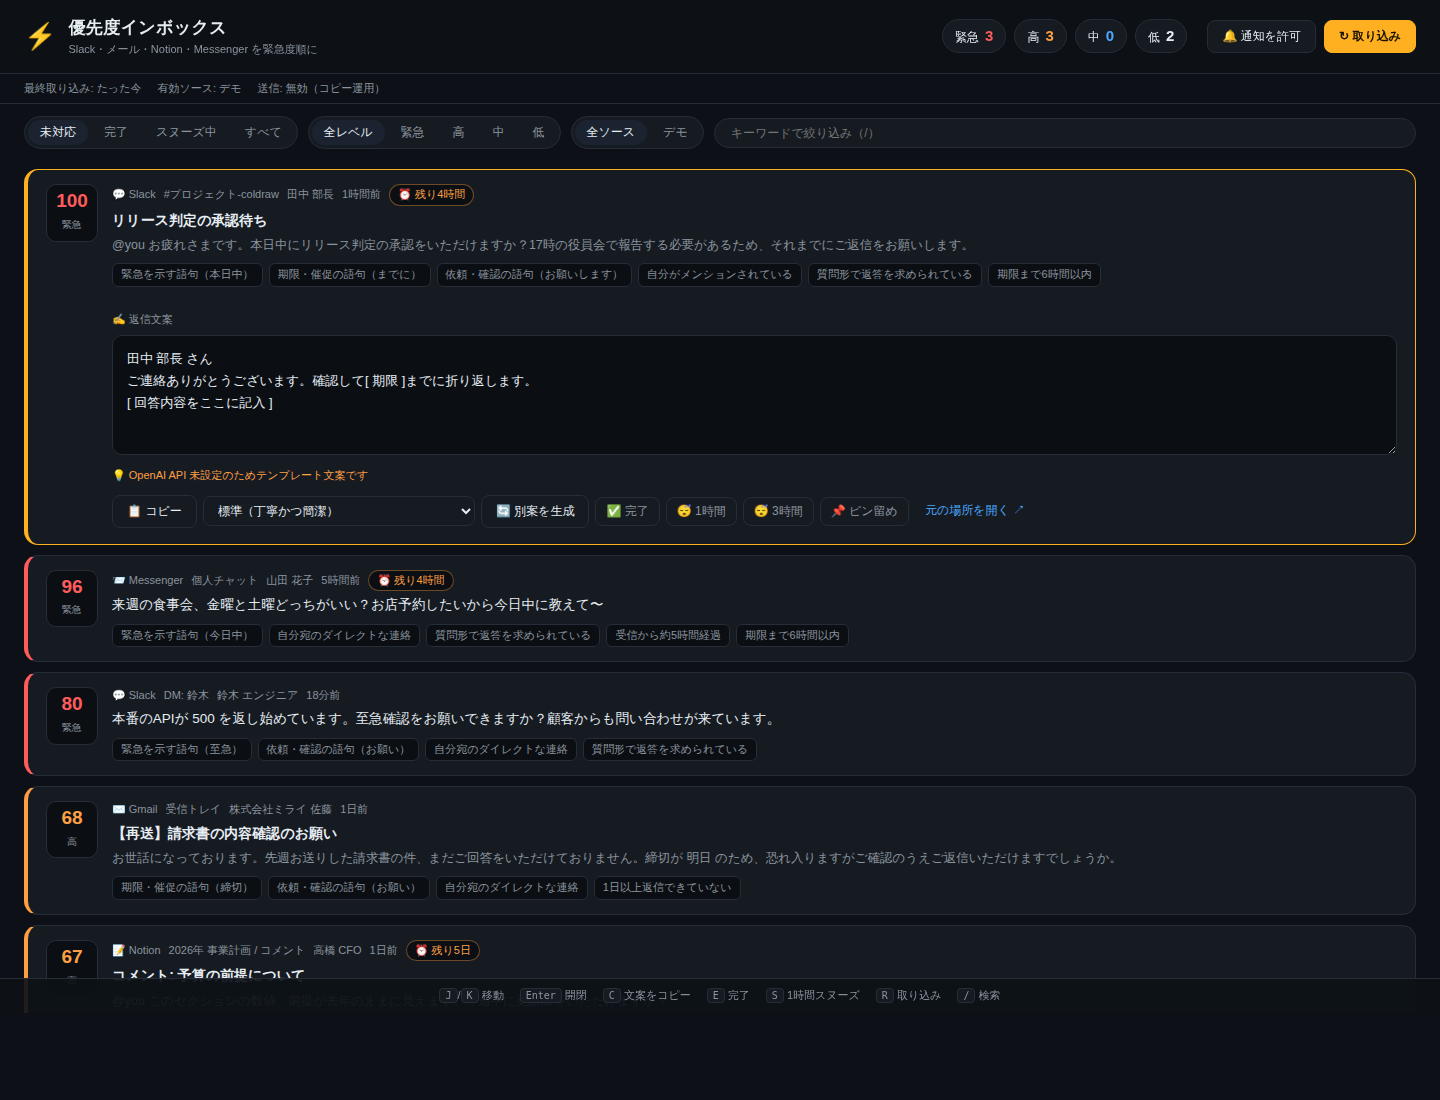
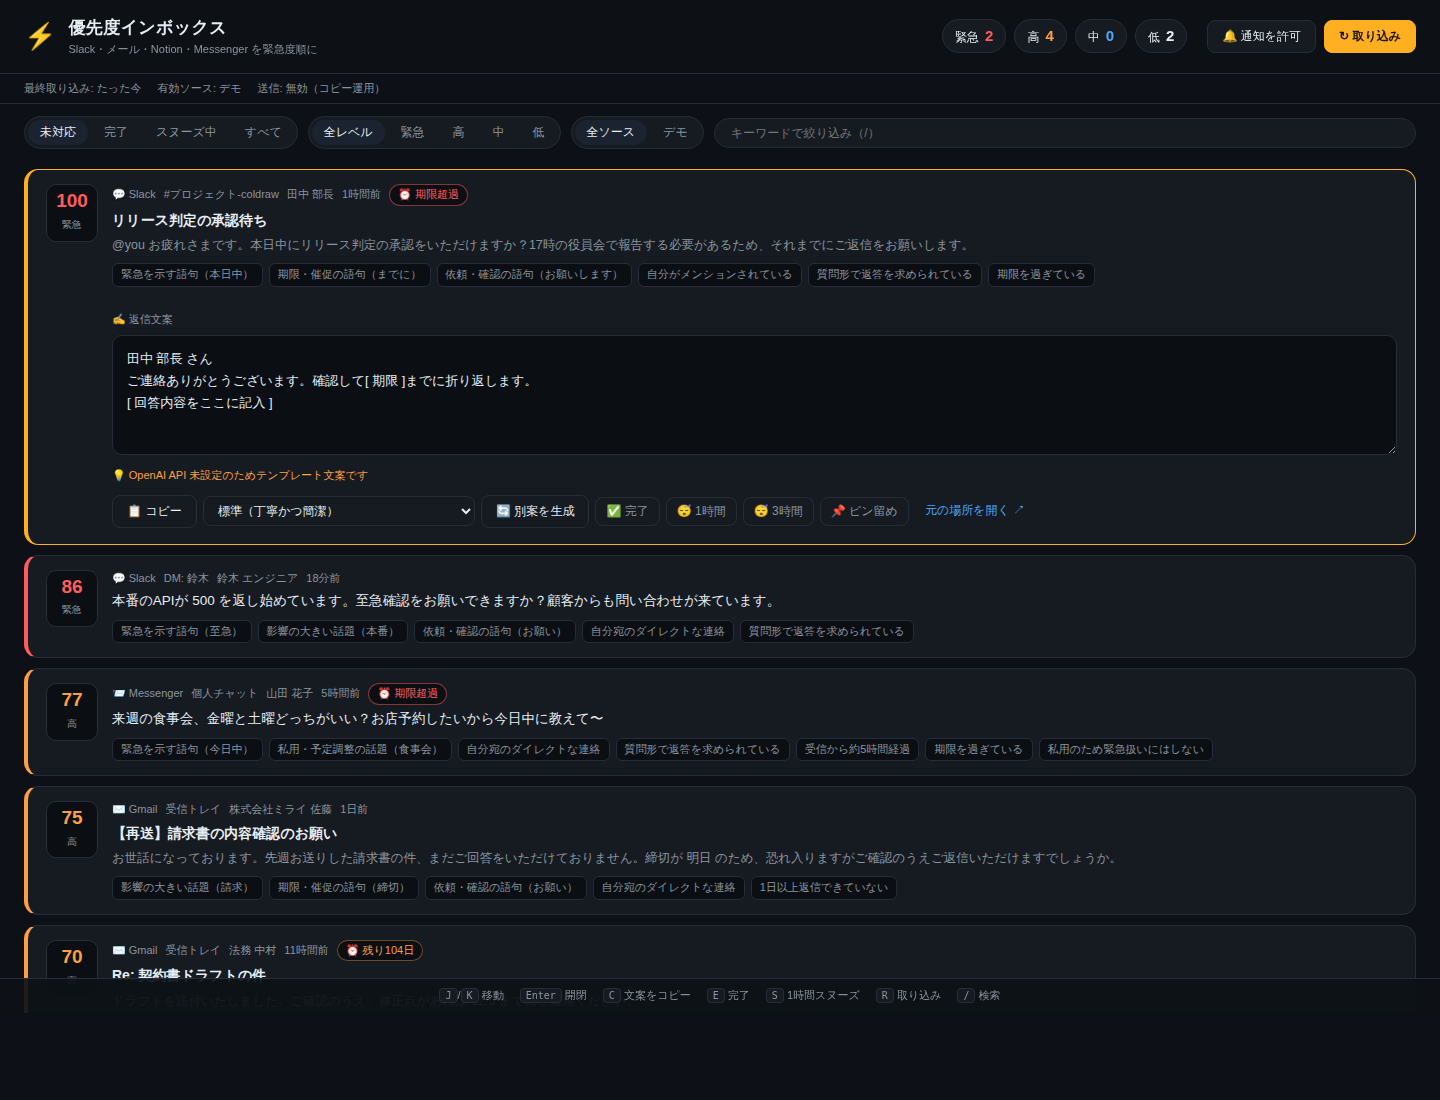
fix: ルール判定で業務影響と私用を区別して並べ替える
キーワードだけで判定していたため、「今日中に店を予約したい」といった私用の連絡が
本番障害より上位に来ていた。ルール判定にしかフォールバックできない環境でも
実務的な並び順になるよう、2 つのシグナルを追加した。

- 影響の大きい話題（障害 / 本番 / 顧客 / 請求 / 契約 / セキュリティ など）を +16 で加点。
  緊急語と重なることで「本当に今やるべき案件」が上位に来る
- 私用・予定調整の話題（食事会 / 予約 / 旅行 など）は -20 で減点し、
  業務影響が絡まない限りスコアを緊急のしきい値未満に抑える。
  利用者の依頼どおり私用の連絡も一覧には残す
- 上記を検証するテストを 3 件追加（全 20 件通過）
- README のスコアリング説明と既知の限界の記述、スクリーンショットを更新

デモデータでの並び: リリース承認 100 → 本番障害 86 → 私用の予定調整 77（従来は 96 で障害より上）

Claude-Session: https://claude.ai/code/session_01EgXQfCyxhKquABRSWYJHgf

diff --git a/src/priority.js b/src/priority.js
@@ -6,7 +6,14 @@ const KEYWORD_RULES = [
     key: 'critical',
     weight: 28,
     label: '緊急を示す語句',
-    words: ['至急', '大至急', '緊急', '今すぐ', '本日中', '今日中', '即時', '障害', 'サービス停止', 'ダウンして', 'インシデント', 'クレーム', 'asap', 'urgent', 'critical', 'outage', 'p0', 'p1']
+    words: ['至急', '大至急', '緊急', '今すぐ', '本日中', '今日中', '即時', 'asap', 'urgent', 'critical', 'p0', 'p1']
+  },
+  {
+    // 放置したときの損失が大きい話題。緊急語と重なると「本当に今やるべき案件」として浮上する
+    key: 'impact',
+    weight: 16,
+    label: '影響の大きい話題',
+    words: ['障害', 'サービス停止', 'ダウンして', 'インシデント', 'クレーム', '本番', '顧客', '取引先', '請求', '支払い', '入金', '契約', '解約', 'セキュリティ', '情報漏洩', '不具合', 'outage', 'incident', 'production', 'customer', 'invoice', 'payment', 'security', 'breach']
   },
   {
     key: 'deadline',
@@ -19,6 +26,13 @@ const KEYWORD_RULES = [
     weight: 9,
     label: '依頼・確認の語句',
     words: ['お願いします', 'お願いいたします', 'お願い', 'ご確認', '確認して', 'ご返信', '返信ください', '回答', '承認', 'レビュー', '依頼', 'いただけますか', 'いただけると', 'please', 'could you', 'review', 'approve', 'sign off']
+  },
+  {
+    // 私用の連絡も対象に含めるが、仕事の重大案件よりは下に来るように控えめに減点する
+    key: 'personal',
+    weight: -20,
+    label: '私用・予定調整の話題',
+    words: ['食事会', '飲み会', '飲みに', 'ランチ', '二次会', 'お店', '予約したい', '誕生日', '旅行', '帰省', 'プレゼント', '遊び']
   },
   {
     key: 'noise',
@@ -207,6 +221,13 @@ export function scoreItem(item, now = new Date()) {
   }
 
   score += SOURCE_WEIGHT[item.source] ?? 0;
+
+  // 私用の予定調整は「今日中」などの語が入っていても最上位（緊急）には上げない。
+  // 仕事の重大な影響が絡む場合（impact）はこの抑制を外す。
+  if (signals.personal && !signals.impact && score >= LEVELS[0].min) {
+    score = LEVELS[0].min - 1;
+    reasons.push('私用のため緊急扱いにはしない');
+  }
 
   const finalScore = clamp(Math.round(score));
   const { level, label } = levelOf(finalScore);

diff --git a/test/priority.test.js b/test/priority.test.js
@@ -83,3 +83,35 @@ test('LLM 判定が無い通知はルール判定のみで再計算される', a
   const item = baseItem({ body: 'よろしくお願いします' });
   assert.equal(rescore(item, { reasons: [] }).triagedBy, 'rules');
 });
+
+test('業務影響のある障害は私用の予定調整より上に来る', () => {
+  const incident = scoreItem(
+    baseItem({ isDirect: true, body: '本番のAPIが500を返しています。至急確認をお願いできますか？顧客からも問い合わせが来ています。' })
+  );
+  const personal = scoreItem(
+    baseItem({ source: 'messenger', isDirect: true, body: '来週の食事会、金曜と土曜どっちがいい？お店予約したいから今日中に教えて〜' })
+  );
+
+  assert.ok(incident.score > personal.score, `incident=${incident.score} personal=${personal.score}`);
+  assert.equal(incident.level, 'urgent');
+});
+
+test('私用の連絡は緊急語があっても緊急レベルにはしない', () => {
+  const result = scoreItem(
+    baseItem({
+      isDirect: true,
+      // 緊急語・期限・放置時間が重なり、本来なら緊急レベルに達する条件をそろえる
+      body: '飲み会のお店、今日中に予約したいから至急返事ちょうだい！どこがいい？',
+      receivedAt: new Date(Date.now() - 12 * 3600 * 1000).toISOString()
+    })
+  );
+  assert.notEqual(result.level, 'urgent');
+  assert.ok(result.reasons.includes('私用のため緊急扱いにはしない'), result.reasons.join(' / '));
+});
+
+test('私用の語句を含んでいても業務影響があれば緊急のままにする', () => {
+  const result = scoreItem(
+    baseItem({ isDirect: true, body: '至急です。顧客との食事会の請求で入金トラブルが起きています。本日中に確認をお願いします。' })
+  );
+  assert.equal(result.level, 'urgent');
+});
